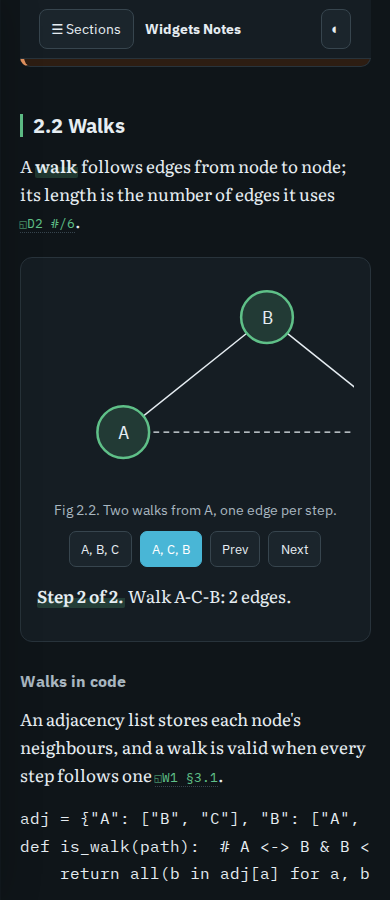
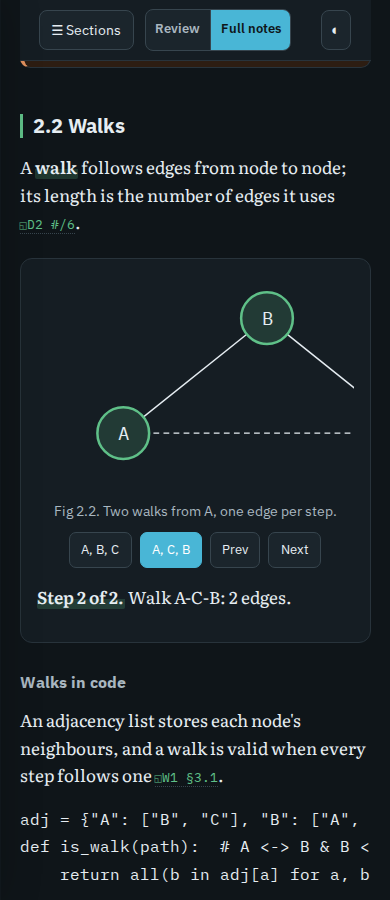
Keep a phone's top bar whole with the view toggle, stay at the top when switching views there, and regenerate the reference shots with the Review view's

diff --git a/skills/exam-prep/templates/notes-chassis.html b/skills/exam-prep/templates/notes-chassis.html
@@ -225,8 +225,11 @@
   .topbar .brand{font-family:var(--f-display);font-weight:700;font-size:.9rem;margin:0;
     min-width:0;flex:1 1 auto;overflow:hidden;text-overflow:ellipsis;white-space:nowrap}
   .menubtn{font:inherit;font-family:var(--f-display);font-size:.85rem;background:var(--surface-2);
-    border:1px solid var(--hair-strong);color:var(--ink);border-radius:8px;padding:.4rem .7rem;min-height:40px;cursor:pointer}
-  .themebtn{margin-left:auto;background:var(--surface-2);border:1px solid var(--hair-strong);color:var(--ink);
+    border:1px solid var(--hair-strong);color:var(--ink);border-radius:8px;padding:.4rem .7rem;min-height:40px;cursor:pointer;
+    flex:none;white-space:nowrap}
+  /* a phone's top bar with the view toggle has no room left for the brand */
+  @media (max-width:480px){ .topbar .brand:has(~ .viewtog){display:none} }
+  .themebtn{flex:none;margin-left:auto;background:var(--surface-2);border:1px solid var(--hair-strong);color:var(--ink);
     border-radius:8px;padding:.4rem .6rem;min-height:40px;cursor:pointer;font-size:.95rem;line-height:1}
   .rail .themebtn{margin:1rem 0 0;width:100%;font-family:var(--f-display);font-size:.8rem}
   .backdrop{display:none;position:fixed;inset:0;background:rgba(0,0,0,.45);z-index:45}
@@ -451,7 +454,8 @@
     setView(savedView==='review'?'review':'full'); onScroll();
     picks.forEach(function(b){ b.addEventListener('click',function(){
       var v=b.dataset.pick; if((v==='review')===reviewOn) return;
-      var at=current&&document.getElementById(current);
+      // keep the heading in view where it still shows; at the page's top, stay at the top
+      var at=window.scrollY>0&&current&&document.getElementById(current);
       setView(v); remember(v);
       var y=at&&shown(at)? at.getBoundingClientRect().top+window.scrollY-16 : 0;
       window.scrollTo({top:Math.max(y,0),behavior:'instant'}); onScroll();

diff --git a/tests/exam_prep/fixtures/site/_build/chassis.html b/tests/exam_prep/fixtures/site/_build/chassis.html
@@ -219,8 +219,11 @@
   .topbar .brand{font-family:var(--f-display);font-weight:700;font-size:.9rem;margin:0;
     min-width:0;flex:1 1 auto;overflow:hidden;text-overflow:ellipsis;white-space:nowrap}
   .menubtn{font:inherit;font-family:var(--f-display);font-size:.85rem;background:var(--surface-2);
-    border:1px solid var(--hair-strong);color:var(--ink);border-radius:8px;padding:.4rem .7rem;min-height:40px;cursor:pointer}
-  .themebtn{margin-left:auto;background:var(--surface-2);border:1px solid var(--hair-strong);color:var(--ink);
+    border:1px solid var(--hair-strong);color:var(--ink);border-radius:8px;padding:.4rem .7rem;min-height:40px;cursor:pointer;
+    flex:none;white-space:nowrap}
+  /* a phone's top bar with the view toggle has no room left for the brand */
+  @media (max-width:480px){ .topbar .brand:has(~ .viewtog){display:none} }
+  .themebtn{flex:none;margin-left:auto;background:var(--surface-2);border:1px solid var(--hair-strong);color:var(--ink);
     border-radius:8px;padding:.4rem .6rem;min-height:40px;cursor:pointer;font-size:.95rem;line-height:1}
   .rail .themebtn{margin:1rem 0 0;width:100%;font-family:var(--f-display);font-size:.8rem}
   .backdrop{display:none;position:fixed;inset:0;background:rgba(0,0,0,.45);z-index:45}
@@ -445,7 +448,8 @@
     setView(savedView==='review'?'review':'full'); onScroll();
     picks.forEach(function(b){ b.addEventListener('click',function(){
       var v=b.dataset.pick; if((v==='review')===reviewOn) return;
-      var at=current&&document.getElementById(current);
+      // keep the heading in view where it still shows; at the page's top, stay at the top
+      var at=window.scrollY>0&&current&&document.getElementById(current);
       setView(v); remember(v);
       var y=at&&shown(at)? at.getBoundingClientRect().top+window.scrollY-16 : 0;
       window.scrollTo({top:Math.max(y,0),behavior:'instant'}); onScroll();

diff --git a/tests/exam_prep/test_assemble.py b/tests/exam_prep/test_assemble.py
@@ -13,7 +13,14 @@ cites (from MANIFEST.md, an uncited row left out; a Made by column only when a c
 cell; what a source is from Notes, with its file name under it, the file line alone without
 them; three columns at most), each citation linked to its row; a code with no
 row, an empty citation or one with its own href, a MANIFEST it can't read, or none when the page
-cites, is refused. The skill repo's synthetic sample hub, the source of the chassis's
+cites, is refused. With a practice/cram-order.md, the map gets its cram block (an .ecram of tiers,
+rows with #id links and depth labels, the Skip and Out of time lines; no mock line, no Tonight)
+and opens; with none, the map stays closed; a cram order failing cram_check (an unknown id among
+them), a row with no depth label or Markdown the map can't render, a hand-written cram block or an
+open attribute in examnav.html is refused. PLAN.md's `- Review view: <N> minutes of reading` keeps
+the toggle, `none` or no line strips it and refuses class rv; rv anywhere but a worked example or
+a Pitfall directly in its section, an unreadable line, and a view over its minutes are refused.
+The skill repo's synthetic sample hub, the source of the chassis's
 reference screenshots, is the template filled, links the skill's CHASSIS.md and assembles with
 every link resolved; with EXAM_PREP_PLAYWRIGHT set, its page also passes verify_page.mjs, run as a
 build runs it, so with the long jump (the one run here or in test_verify_page that keeps it on by

diff --git a/tests/exam_prep/test_verify_page.py b/tests/exam_prep/test_verify_page.py
@@ -19,7 +19,10 @@ an overflow that shows only with the worked examples open, a MathJax startup tha
 or fails,
 and an element named currentScript, which the pinned loader path ignores but which, unpinned,
 moves MathJax's loader to its host; a long page whose rail scrolls the page with scrollIntoView,
-which cuts a long jump short in WebKit (C1); and --views on the mock page (its own class)."""
+which cuts a long jump short in WebKit (C1); and --views on the mock page (its own class). The
+sample's Review view passes in every viewport, its shots named -review, with the long jump run
+there too; its page broken to show an untagged paragraph, hide an rv block or drop the Must-know
+list fails, and so does a link to a hidden target that doesn't switch to Full notes."""
 import contextlib
 import importlib.util
 import io

diff --git a/tests/exam_prep/test_verify_notes_templates.py b/tests/exam_prep/test_verify_notes_templates.py
@@ -4,7 +4,8 @@ into _build/verify/.
 Each runs in a temp hub copied from fixtures/verify-notes (two notes files, their fragments and an
 examples.out.md, all matching), as the workflows run it: `python3 -I` from the hub root. Pinned:
 each self-test passes on the hub; a clean hub passes; each error the brief names, planted into
-the hub's own files, fails the real run with a line naming where and what; and each self-test
+the hub's own files, fails the real run with a line naming where and what (a dropped `.rv`, and
+a `.rv` on a Not-on banner, among them); and each self-test
 fails when its comparison is made a no-op (NOT CAUGHT) or its plant changes nothing (PLANT DID
 NOTHING)."""
 import os
